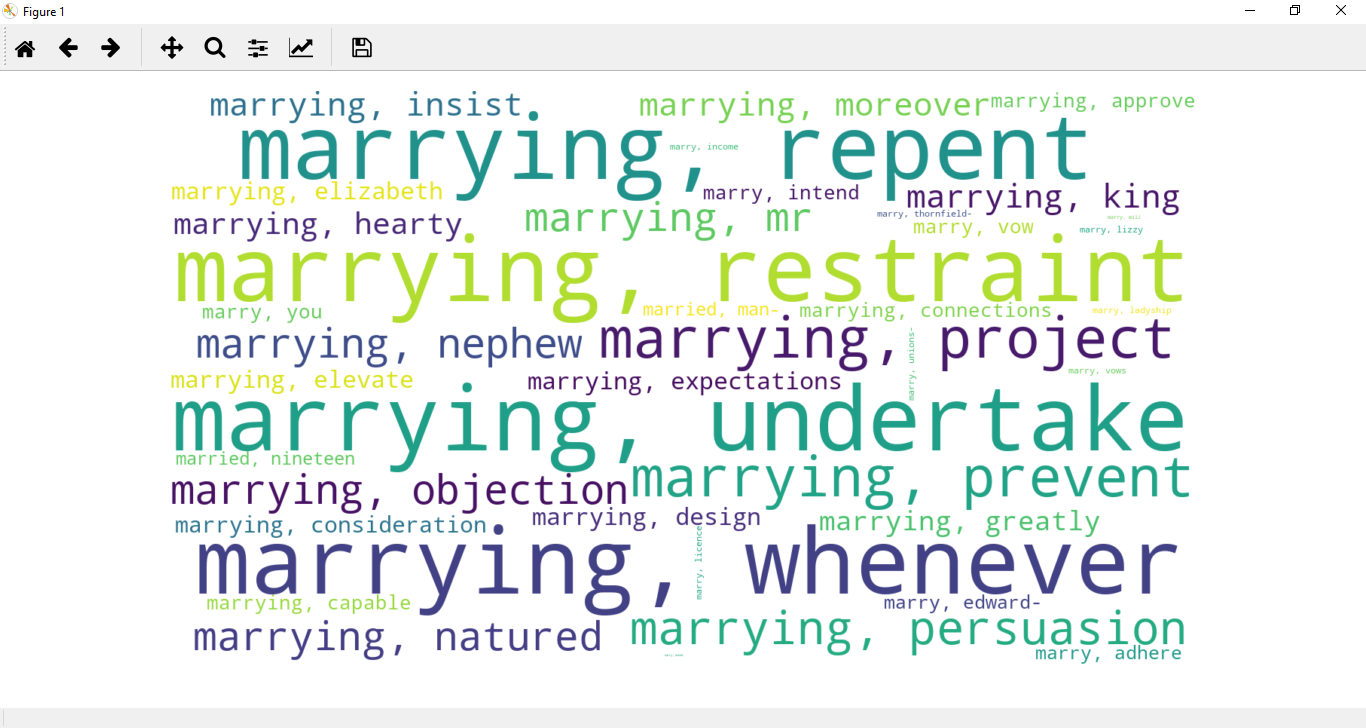
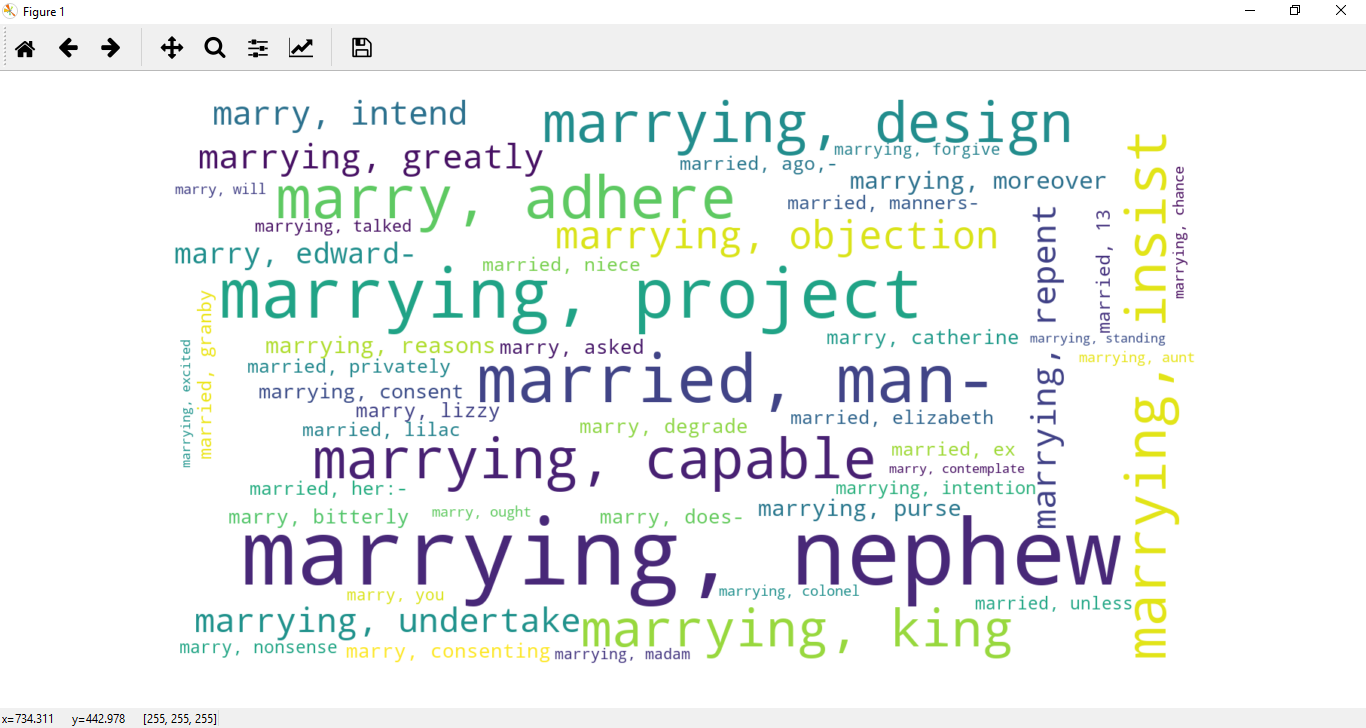
Work Area: Update Collocation

Changed region(s): [[0.123, 0.1209, 0.8917, 0.9066], [0.0, 0.967, 0.1537, 0.9973]]

diff --git a/src/wordless_collocation.py b/src/wordless_collocation.py
@@ -11,6 +11,7 @@
 
 import collections
 import copy
+import operator
 import re
 import time
 
@@ -632,13 +633,13 @@ class Wordless_Worker_Process_Data_Collocation(wordless_threading.Wordless_Worke
     def __init__(self, main, dialog_progress, data_received):
         super().__init__(main, dialog_progress, data_received)
 
-        self.collocates_freqs_files = []
-        self.collocates_stats_files = []
+        self.collocations_freqs_files = []
+        self.collocations_stats_files = []
         self.nodes_text = {}
 
     def process_data(self):
         texts = []
-        ngrams_freq_files = []
+        collocations_freqs_files_all = []
 
         settings = self.main.settings_custom['collocation']
 
@@ -658,7 +659,8 @@ class Wordless_Worker_Process_Data_Collocation(wordless_threading.Wordless_Worke
 
         # Frequency
         for i, file in enumerate(files):
-            collocates_freqs_file = {}
+            collocations_freqs_file = {}
+            collocations_freqs_file_all = {}
 
             text = wordless_text.Wordless_Text(self.main, file)
 
@@ -686,79 +688,88 @@ class Wordless_Worker_Process_Data_Collocation(wordless_threading.Wordless_Worke
                 len_search_term_max = 1
 
             for ngram_size in range(len_search_term_min, len_search_term_max + 1):
+                if ngram_size not in collocations_freqs_files_all:
+                    collocations_freqs_file_all[ngram_size] = collections.Counter()
+
                 for i, ngram in enumerate(nltk.ngrams(tokens, ngram_size)):
                     for j, collocate in enumerate(reversed(tokens[max(0, i - window_size_left) : i])):
                         if wordless_matching.check_context(i, tokens,
                                                            context_settings = settings['context_settings'],
                                                            search_terms_inclusion = search_terms_inclusion,
                                                            search_terms_exclusion = search_terms_exclusion):
-                            if (ngram, collocate) not in collocates_freqs_file:
-                                collocates_freqs_file[(ngram, collocate)] = [0] * window_size
+                            if (ngram, collocate) not in collocations_freqs_file:
+                                collocations_freqs_file[(ngram, collocate)] = [0] * window_size
 
-                            collocates_freqs_file[(ngram, collocate)][window_size_left - 1 - j] += 1
+                            collocations_freqs_file[(ngram, collocate)][window_size_left - 1 - j] += 1
+
+                        collocations_freqs_file_all[ngram_size][(ngram, collocate)] += 1
 
                     for j, collocate in enumerate(tokens[i + ngram_size: i + ngram_size + window_size_right]):
                         if wordless_matching.check_context(i, tokens,
                                                            context_settings = settings['context_settings'],
                                                            search_terms_inclusion = search_terms_inclusion,
                                                            search_terms_exclusion = search_terms_exclusion):
-                            if (ngram, collocate) not in collocates_freqs_file:
-                                collocates_freqs_file[(ngram, collocate)] = [0] * window_size
+                            if (ngram, collocate) not in collocations_freqs_file:
+                                collocations_freqs_file[(ngram, collocate)] = [0] * window_size
 
-                            collocates_freqs_file[(ngram, collocate)][window_size_left + j] += 1
+                            collocations_freqs_file[(ngram, collocate)][window_size_left + j] += 1
 
-            collocates_freqs_file = {(ngram, collocate): freqs
-                                     for (ngram, collocate), freqs in collocates_freqs_file.items()
-                                     if all(ngram) and collocate}
+                        collocations_freqs_file_all[ngram_size][(ngram, collocate)] += 1
+
+            collocations_freqs_file = {(ngram, collocate): freqs
+                                       for (ngram, collocate), freqs in collocations_freqs_file.items()
+                                       if all(ngram) and collocate}
 
             # Filter search terms
             if settings['search_settings']['search_settings']:
-                collocates_freqs_file_filtered = {}
+                collocations_freqs_file_filtered = {}
 
                 for search_term in search_terms:
                     len_search_term = len(search_term)
 
-                    for (node, collocate), freqs in collocates_freqs_file.items():
+                    for (node, collocate), freqs in collocations_freqs_file.items():
                         for ngram in nltk.ngrams(node, len_search_term):
                             if ngram == search_term:
-                                collocates_freqs_file_filtered[(node, collocate)] = freqs
+                                collocations_freqs_file_filtered[(node, collocate)] = freqs
 
-                self.collocates_freqs_files.append(collocates_freqs_file_filtered)
+                self.collocations_freqs_files.append(collocations_freqs_file_filtered)
             else:
-                self.collocates_freqs_files.append(collocates_freqs_file)
+                self.collocations_freqs_files.append(collocations_freqs_file)
 
-            # Frequency (N-grams)
-            for i in {1} | set(range(len_search_term_min, len_search_term_max + 1)):
-                ngrams = [ngram
-                          for ngram in nltk.ngrams(tokens, i)
-                          if all(ngram)]
-
-                ngrams_freq_files.append(collections.Counter(ngrams))
+            # Frequency (All)
+            collocations_freqs_files_all.append(collocations_freqs_file_all)
 
             # Nodes Text
-            for (node, collocate) in collocates_freqs_file:
+            for (node, collocate) in collocations_freqs_file:
                 self.nodes_text[node] = wordless_text_processing.wordless_word_detokenize(self.main, node, text.lang)
 
             texts.append(text)
 
         # Total
         if len(files) > 1:
-            collocates_freqs_total = {}
+            collocations_freqs_total = {}
+            collocations_freqs_total_all = {}
 
-            text_total = wordless_text.Wordless_Text_Blank()
-            text_total.tokens = [token for text in texts for token in text.tokens]
+            texts.append(wordless_text.Wordless_Text_Blank())
 
-            texts.append(text_total)
-            ngrams_freq_files.append(sum(ngrams_freq_files, collections.Counter()))
-
-            for collocates_freqs_file in self.collocates_freqs_files:
-                for collocate, freqs in collocates_freqs_file.items():
-                    if collocate not in collocates_freqs_total:
-                        collocates_freqs_total[collocate] = numpy.array(freqs)
+            # Frequency
+            for collocations_freqs_file in self.collocations_freqs_files:
+                for collocation, freqs in collocations_freqs_file.items():
+                    if collocation not in collocations_freqs_total:
+                        collocations_freqs_total[collocation] = freqs
                     else:
-                        collocates_freqs_total[collocate] += numpy.array(freqs)
+                        collocations_freqs_total[collocation] = list(map(operator.add, collocations_freqs_total[collocation], freqs))
 
-            self.collocates_freqs_files.append(collocates_freqs_total)
+            # Frequency (All)
+            for collocations_freqs_file_all in collocations_freqs_files_all:
+                for ngram_size, collocations_freqs in collocations_freqs_file_all.items():
+                    if ngram_size not in collocations_freqs_total_all:
+                        collocations_freqs_total_all[ngram_size] = collections.Counter()
+
+                    collocations_freqs_total_all[ngram_size] += collocations_freqs
+
+            self.collocations_freqs_files.append(collocations_freqs_total)
+            collocations_freqs_files_all.append(collocations_freqs_total_all)
 
         self.progress_updated.emit(self.tr('Processing data ...'))
 
@@ -769,35 +780,44 @@ class Wordless_Worker_Process_Data_Collocation(wordless_threading.Wordless_Worke
         test_significance = self.main.settings_global['tests_significance']['collocation'][text_test_significance]['func']
         measure_effect_size = self.main.settings_global['measures_effect_size']['collocation'][text_measure_effect_size]['func']
 
-        collocates_total = self.collocates_freqs_files[-1].keys()
+        collocations_total = self.collocations_freqs_files[-1].keys()
 
-        for text, ngrams_freq_file, collocates_freqs_file in zip(texts,
-                                                                 ngrams_freq_files,
-                                                                 self.collocates_freqs_files):
+        for text, collocations_freqs_file, collocations_freqs_file_all in zip(texts,
+                                                                              self.collocations_freqs_files,
+                                                                              collocations_freqs_files_all):
             collocates_stats_file = {}
+            c1xs = collections.Counter()
+            cx1s = collections.Counter()
+            cxxs = {}
 
-            len_tokens = len(text.tokens)
+            # C1x & Cx1
+            for ngram_size, collocations_freqs in collocations_freqs_file_all.items():
+                for (node, collocate), freq in collocations_freqs.items():
+                    c1xs[collocate] += freq
+                    cx1s[node] += freq
 
-            for node, collocate in collocates_total:
-                len_node = len(node)
+            # Cxx
+            for ngram_size, collocations_freqs in collocations_freqs_file_all.items():
+                cxxs[ngram_size] = sum(collocations_freqs.values())
 
-                if (node, collocate) in collocates_freqs_file:
-                    c11 = sum(collocates_freqs_file[(node, collocate)])
+            for node, collocate in collocations_total:
+                if (node, collocate) in collocations_freqs_file:
+                    c11 = sum(collocations_freqs_file[(node, collocate)])
                 else:
                     c11 = 0
 
-                c12 = max(0, ngrams_freq_file[(collocate,)] - c11)
-                c21 = max(0, ngrams_freq_file[node] - c11)
-                c22 = len_tokens - c11 - c12 - c21
+                c12 = c1xs[collocate] - c11
+                c21 = cx1s[node] - c11
+                c22 = cxxs[len(node)] - c11 - c12 - c21
 
                 collocates_stats_file[(node, collocate)] = test_significance(self.main, c11, c12, c21, c22)
                 collocates_stats_file[(node, collocate)].append(measure_effect_size(self.main, c11, c12, c21, c22))
 
-            self.collocates_stats_files.append(collocates_stats_file)
+            self.collocations_stats_files.append(collocates_stats_file)
 
         if len(files) == 1:
-            self.collocates_freqs_files *= 2
-            self.collocates_stats_files *= 2
+            self.collocations_freqs_files *= 2
+            self.collocations_stats_files *= 2
 
 class Wordless_Worker_Process_Data_Collocation_Table(Wordless_Worker_Process_Data_Collocation):
     def process_data(self):
@@ -807,8 +827,8 @@ class Wordless_Worker_Process_Data_Collocation_Table(Wordless_Worker_Process_Dat
 
         time.sleep(0.1)
 
-        self.processing_finished.emit(wordless_misc.merge_dicts(self.collocates_freqs_files),
-                                      wordless_misc.merge_dicts(self.collocates_stats_files),
+        self.processing_finished.emit(wordless_misc.merge_dicts(self.collocations_freqs_files),
+                                      wordless_misc.merge_dicts(self.collocations_stats_files),
                                       self.nodes_text)
 
 class Wordless_Worker_Process_Data_Collocation_Fig(Wordless_Worker_Process_Data_Collocation):
@@ -819,14 +839,14 @@ class Wordless_Worker_Process_Data_Collocation_Fig(Wordless_Worker_Process_Data_
 
         time.sleep(0.1)
 
-        self.processing_finished.emit(wordless_misc.merge_dicts(self.collocates_freqs_files),
-                                      wordless_misc.merge_dicts(self.collocates_stats_files),
+        self.processing_finished.emit(wordless_misc.merge_dicts(self.collocations_freqs_files),
+                                      wordless_misc.merge_dicts(self.collocations_stats_files),
                                       self.nodes_text)
 
 @wordless_misc.log_timing
 def generate_table(main, table):
-    def data_received(collocates_freqs_files, collocates_stats_files, nodes_text):
-        if collocates_freqs_files:
+    def data_received(collocations_freqs_files, collocations_stats_files, nodes_text):
+        if collocations_freqs_files:
             table.clear_table()
 
             table.settings = main.settings_custom
@@ -943,10 +963,10 @@ def generate_table(main, table):
 
             len_files = len(files)
 
-            table.setRowCount(len(collocates_freqs_files))
+            table.setRowCount(len(collocations_freqs_files))
 
-            for i, ((node, collocate), stats_files) in enumerate(wordless_sorting.sorted_collocates_stats_files(collocates_stats_files)):
-                freqs_files = collocates_freqs_files[(node, collocate)]
+            for i, ((node, collocate), stats_files) in enumerate(wordless_sorting.sorted_collocations_stats_files(collocations_stats_files)):
+                freqs_files = collocations_freqs_files[(node, collocate)]
 
                 # Rank
                 table.set_item_num_int(i, 0, -1)
@@ -1030,8 +1050,8 @@ def generate_table(main, table):
 
 @wordless_misc.log_timing
 def generate_fig(main):
-    def data_received(collocates_freqs_files, collocates_stats_files, nodes_text):
-        if collocates_freqs_files:
+    def data_received(collocations_freqs_files, collocations_stats_files, nodes_text):
+        if collocations_freqs_files:
             text_test_significance = settings['generation_settings']['test_significance']
             text_measure_effect_size = settings['generation_settings']['measure_effect_size']
 
@@ -1050,40 +1070,40 @@ def generate_fig(main):
                     span_position = span_positions.index(int(settings['fig_settings']['use_data'][1:]))
 
                 collocates_freq_files = {', '.join([nodes_text[node], collocate]): numpy.array(freqs)[:, span_position]
-                                         for (node, collocate), freqs in collocates_freqs_files.items()}
+                                         for (node, collocate), freqs in collocations_freqs_files.items()}
 
                 wordless_fig_freq.wordless_fig_freq(main, collocates_freq_files,
                                                     settings = settings['fig_settings'],
                                                     label_x = main.tr('Collocates'))
             elif settings['fig_settings']['use_data'] == main.tr('Frequency'):
                 collocates_freq_files = {', '.join([nodes_text[node], collocate]): numpy.array(freqs).sum(axis = 1)
-                                         for (node, collocate), freqs in collocates_freqs_files.items()}
+                                         for (node, collocate), freqs in collocations_freqs_files.items()}
 
                 wordless_fig_freq.wordless_fig_freq(main, collocates_freq_files,
                                                     settings = settings['fig_settings'],
                                                     label_x = main.tr('Collocates'))
             else:
-                collocates_stats_files = {', '.join([nodes_text[node], collocate]): freqs
-                                          for (node, collocate), freqs in collocates_stats_files.items()}
+                collocations_stats_files = {', '.join([nodes_text[node], collocate]): freqs
+                                          for (node, collocate), freqs in collocations_stats_files.items()}
 
                 if settings['fig_settings']['use_data'] == text_test_stat:
                     collocates_stat_files = {collocate: numpy.array(stats_files)[:, 0]
-                                             for collocate, stats_files in collocates_stats_files.items()}
+                                             for collocate, stats_files in collocations_stats_files.items()}
 
                     label_y = text_test_stat
                 elif settings['fig_settings']['use_data'] == text_p_value:
                     collocates_stat_files = {collocate: numpy.array(stats_files)[:, 1]
-                                             for collocate, stats_files in collocates_stats_files.items()}
+                                             for collocate, stats_files in collocations_stats_files.items()}
 
                     label_y = text_p_value
                 elif settings['fig_settings']['use_data'] == text_bayes_factor:
                     collocates_stat_files = {collocate: numpy.array(stats_files)[:, 2]
-                                             for collocate, stats_files in collocates_stats_files.items()}
+                                             for collocate, stats_files in collocations_stats_files.items()}
 
                     label_y = text_bayes_factor
                 elif settings['fig_settings']['use_data'] == text_effect_size:
                     collocates_stat_files = {collocate: numpy.array(stats_files)[:, 3]
-                                             for collocate, stats_files in collocates_stats_files.items()}
+                                             for collocate, stats_files in collocations_stats_files.items()}
 
                     label_y = text_effect_size
 
@@ -1100,7 +1120,7 @@ def generate_fig(main):
 
         dialog_progress.accept()
 
-        if collocates_freqs_files:
+        if collocations_freqs_files:
             wordless_fig.show_fig()
 
     settings = main.settings_custom['collocation']

diff --git a/src/wordless_utils/wordless_sorting.py b/src/wordless_utils/wordless_sorting.py
@@ -89,7 +89,7 @@ def sorted_tokens_stat_file(tokens_stat_files, i_file):
     return sorted(tokens_stat_files.items(), key = key)
 
 # Association
-def sorted_collocates_stats_files(collocates_stats_files):
+def sorted_collocations_stats_files(collocations_stats_files):
     def key(item):
         keys = []
 
@@ -110,7 +110,7 @@ def sorted_collocates_stats_files(collocates_stats_files):
 
         return keys
 
-    return sorted(collocates_stats_files.items(), key = key)
+    return sorted(collocations_stats_files.items(), key = key)
 
 # Keyness
 def sorted_keywords_stats_files(keywords_stats_files):

diff --git a/src/wordless_testing/testing_measures.py b/src/wordless_testing/testing_measures.py
@@ -156,7 +156,7 @@ print('---------- Measures of Effect Size ----------')
 
 main.settings_custom['measures']['effect_size'] = {
     'kilgarriffs_ratio': {
-        'smoothing_parameter': 1.00,
+        'smoothing_param': 1.00,
     }
 }
 
